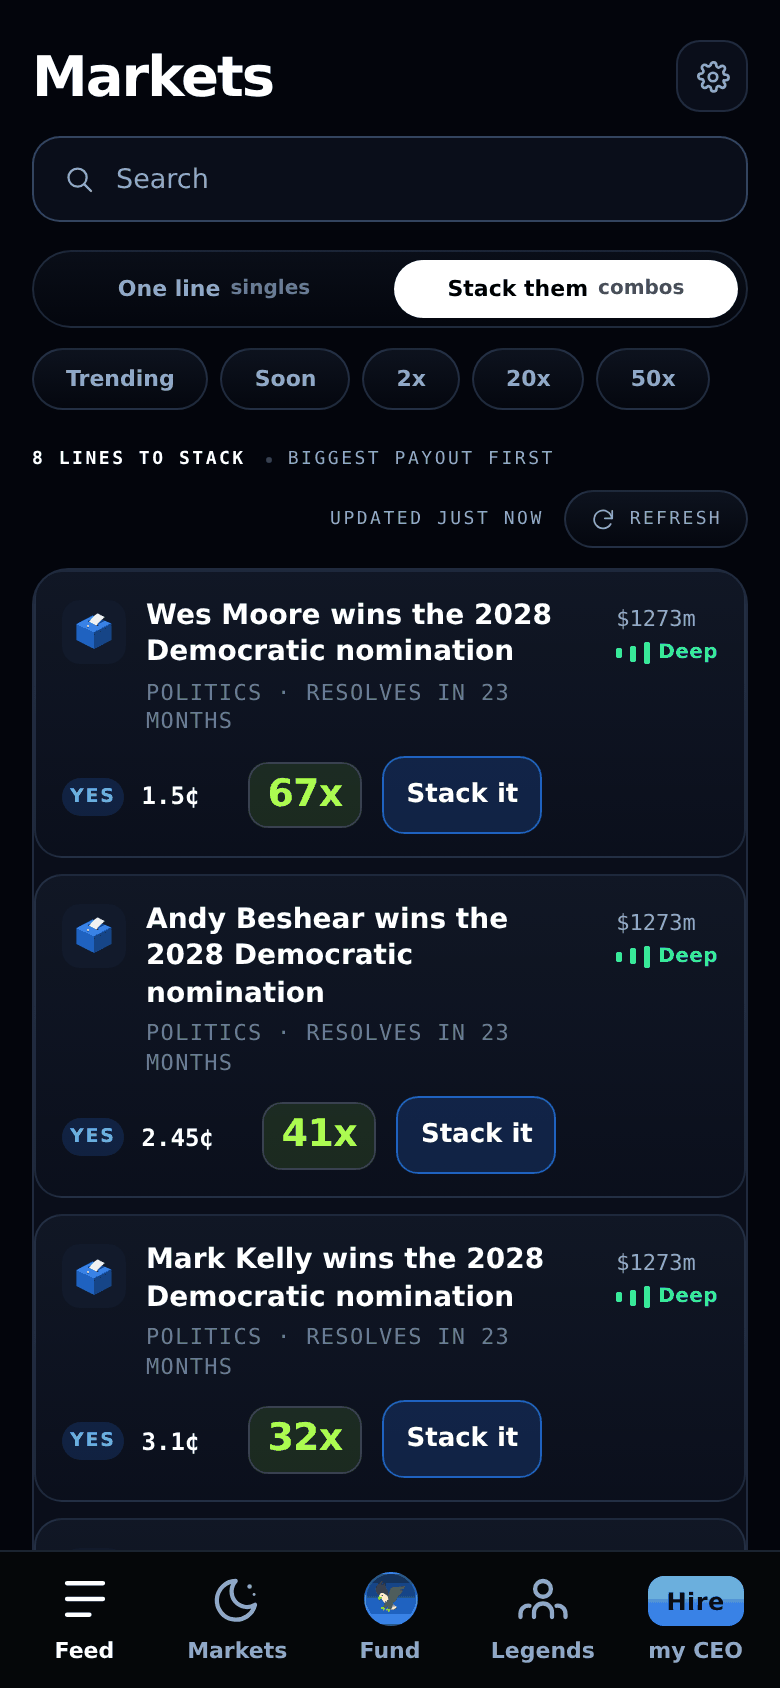
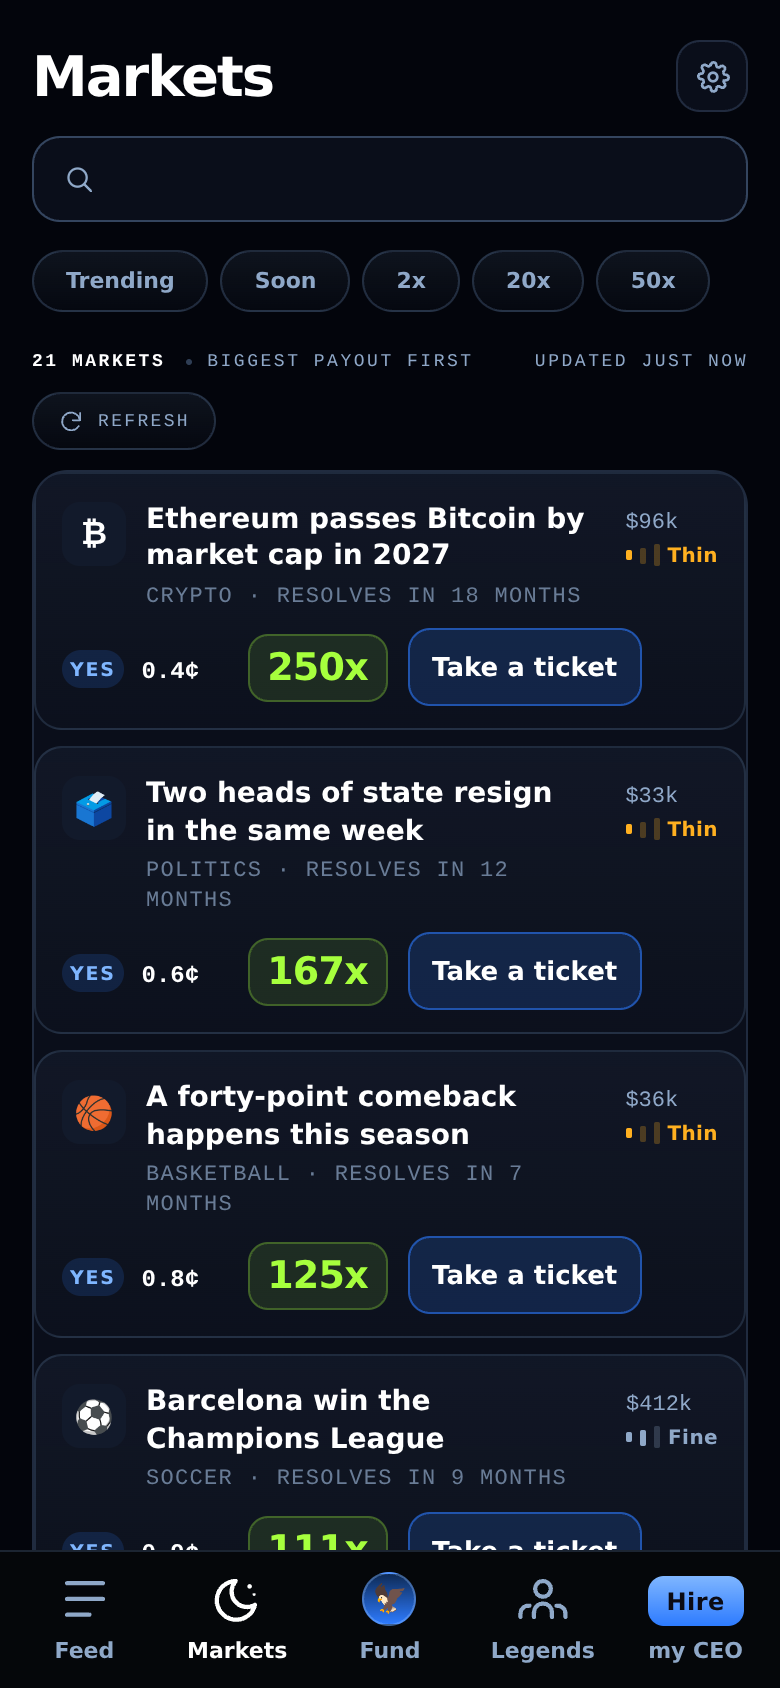
Accueil: accroche sur deux niveaux, capture des marches mise a jour

diff --git a/index.html b/index.html
@@ -6,12 +6,12 @@
 <meta name="color-scheme" content="dark">
 <meta name="theme-color" content="#03050C">
 <title>MOONX | Where long shots become legends</title>
-<meta name="description" content="Trading Polymarket for the 99%. Chase the X on any prediction market, in a tap.">
+<meta name="description" content="Trading Polymarket for the 99%. Chase the X on any prediction market, in seconds.">
 <link rel="canonical" href="https://moonx.fi/">
 <meta property="og:type" content="website">
 <meta property="og:site_name" content="MOONX">
 <meta property="og:title" content="MOONX | Where long shots become legends">
-<meta property="og:description" content="Trading Polymarket for the 99%. Chase the X on any prediction market, in a tap.">
+<meta property="og:description" content="Trading Polymarket for the 99%. Chase the X on any prediction market, in seconds.">
 <meta property="og:url" content="https://moonx.fi/">
 <meta property="og:image" content="https://moonx.fi/og-image.png">
 <meta property="og:image:width" content="1200">
@@ -801,13 +801,15 @@ body.lit .kick{opacity:1}
 .kick2{position:relative;z-index:2;font-weight:800;font-size:clamp(26px,4.4vw,44px);letter-spacing:-.035em;line-height:1.05;margin-top:10px;max-width:16ch}
 .kick2[hidden]{display:none}
 
-.tagline{position:relative;z-index:2;margin:16px auto 0;max-width:min(92vw,64ch);color:var(--dim,#8FA8C8);font-size:clamp(17px,1.6vw,22px);line-height:1.4;font-weight:500;text-align:center}
+.tagline{position:relative;z-index:2;margin:16px auto 0;max-width:min(92vw,64ch);text-align:center;display:flex;flex-direction:column;gap:4px}
+.tagline strong{color:#DCE4F2;font-weight:600;font-size:clamp(20px,1.9vw,26px);line-height:1.25;letter-spacing:-.01em}
+.tagline span{color:var(--dim,#8FA8C8);font-weight:500;font-size:clamp(15px,1.3vw,18px);line-height:1.4}
 .pline[hidden]{display:none}
 .proof[hidden]{display:none}
-.proof{position:relative;z-index:2;margin-top:18px;text-align:center;opacity:0;transition:opacity 1s .4s}
+.proof{position:relative;z-index:2;margin-top:40px;text-align:center;opacity:0;transition:opacity 1s .4s}
 body.lit .proof{opacity:1}
 
-.pmult{font-family:"Blanka","Elianto",system-ui,sans-serif;font-weight:400;font-size:clamp(60px,17vw,112px);letter-spacing:0;line-height:.95;color:var(--mint);text-shadow:0 0 30px rgba(166,255,61,.45)}
+.pmult{font-family:"Blanka","Elianto",system-ui,sans-serif;font-weight:400;font-size:clamp(64px,15vw,96px);letter-spacing:0;line-height:.95;color:var(--mint);text-shadow:0 0 30px rgba(166,255,61,.45)}
 .ptime{display:inline-block;margin-top:6px;font-family:var(--mono);font-size:11px;letter-spacing:.16em;color:#fff;background:rgba(166,255,61,.14);border:1px solid rgba(166,255,61,.35);border-radius:99px;padding:5px 12px}
 .ptime.c{background:rgba(127,182,255,.14);border-color:rgba(127,182,255,.4)}
 .phead{margin-top:12px;font-weight:800;font-size:clamp(20px,5vw,26px);letter-spacing:-.02em;line-height:1.15;max-width:22ch;margin-left:auto;margin-right:auto}
@@ -1145,7 +1147,7 @@ body>nav>a:first-child:hover::after,body>nav>a:first-child:focus-visible::after{
   <div class="wordmark"><svg class="wm" viewBox="14 0 72 22" role="img" aria-label="MOONX" preserveAspectRatio="xMidYMid meet"><text class="wmt" x="50" y="17" text-anchor="middle">MOONX</text></svg></div>
   <p class="kick2" id="kick2" hidden>where long shots become legends.</p>
 
-  <p class="tagline">Trading Polymarket for the 99%. Chase the X on any prediction market, in a tap.</p>
+  <p class="tagline"><strong>Trading Polymarket for the 99%.</strong><span>Chase the X on any prediction market, in seconds.</span></p>
   <div class="proof" id="proof" hidden>
     <div class="pmult" id="pMult">4.5x</div>
     <div class="ptime" id="pTime">IN 90 MINUTES</div>
@@ -1157,8 +1159,8 @@ body>nav>a:first-child:hover::after,body>nav>a:first-child:focus-visible::after{
   <a class="cta" href="#board">Get your ticket</a>
   <div class="stage">
     <div class="desk" aria-hidden="true"><picture><source srcset="assets/shots/45b377bc54.webp" type="image/webp"><img class="" src="assets/shots/45b377bc54.png" width="1920" height="1200" alt="MOONX on a laptop and a phone: the feed of shots, the board of markets, and a position paying its multiple." style="display:block;width:100%;height:auto" loading="lazy" decoding="async"></picture></div>
-    <div class="phone" aria-label="MOONX app preview: take the shot">
-      <div class="screen screen-img"><picture><source srcset="assets/shots/dd7871ec76.webp" type="image/webp"><img class="" src="assets/shots/dd7871ec76.png" width="780" height="1688" alt="MOONX: take the shot on a real market. Mark Cuban wins the 2028 Democratic nomination, YES at 0.55¢: $10 you stake, $1,818 if it moons. If it misses you lose the $10 and nothing more." loading="lazy" decoding="async"></picture></div>
+    <div class="phone" aria-label="MOONX app preview: the markets board">
+  <div class="screen screen-img"><picture><source srcset="assets/shots/eec0e71716.webp" type="image/webp"><img class="" src="assets/shots/eec0e71716.png" width="780" height="1688" alt="MOONX markets: every prediction market with its price and its multiple. Ethereum passes Bitcoin by market cap in 2027, YES at 0.4¢, 250x, one ticket away." loading="lazy" decoding="async"></picture></div>
     </div>
     <div class="fade" aria-hidden="true"></div>
     <div class="band">
@@ -1170,9 +1172,9 @@ body>nav>a:first-child:hover::after,body>nav>a:first-child:focus-visible::after{
 <section class="journey" id="journey">
     <h2 class="sr-only">how it works, step by step</h2>
   <div class="jwrap">
-    <div class="jsticky"><div class="jstage"><div class="jphone" id="jphone"><div class="jscreen"><picture><source srcset="assets/shots/fe14147745.webp" type="image/webp"><img class="scr" data-i="0" src="assets/shots/fe14147745.png" width="780" height="1688" alt="The MOONX account step: an email, a name for your fund, and a PIN." loading="lazy" decoding="async"></picture><picture><source srcset="assets/shots/2f304c423f.webp" type="image/webp"><img class="scr" data-i="1" src="assets/shots/2f304c423f.png" width="780" height="1688" alt="The wallet step: an encrypted backup file and a password only you hold." loading="lazy" decoding="async"></picture><picture><source srcset="assets/shots/0e46fb0722.webp" type="image/webp"><img class="scr" data-i="2" src="assets/shots/0e46fb0722.png" width="780" height="1688" alt="Choosing a PIN, six to twelve digits, that confirms every trade."></picture><picture><source srcset="assets/shots/eec0e71716.webp" type="image/webp"><img class="scr" data-i="3" src="assets/shots/eec0e71716.png" width="780" height="1688" alt="The bridge to Polymarket, opened from your own wallet." loading="lazy" decoding="async"></picture><picture><source srcset="assets/shots/dd7871ec76.webp" type="image/webp"><img class="scr" data-i="4" src="assets/shots/dd7871ec76.png" width="780" height="1688" alt="The board: every prediction market, with its price." loading="lazy" decoding="async"></picture><picture><source srcset="assets/shots/fa761d795b.webp" type="image/webp"><img class="scr" data-i="5" src="assets/shots/fa761d795b.png" width="780" height="1688" alt="Taking a shot on a market, with the payout shown before you confirm." loading="lazy" decoding="async"></picture><picture><source srcset="assets/shots/0c6cef10d6.webp" type="image/webp"><img class="scr" data-i="6" src="assets/shots/0c6cef10d6.png" width="780" height="1688" alt="The feed: who took which shot, and how it resolved." loading="lazy" decoding="async"></picture><picture><source srcset="assets/shots/6fdc2fb68d.webp" type="image/webp"><img class="scr" data-i="7" src="assets/shots/6fdc2fb68d.png" width="780" height="1688" alt="A resolved position paying its multiple, on-chain." loading="lazy" decoding="async"></picture><picture><source srcset="assets/shots/a3fd2457c9.webp" type="image/webp"><img class="scr" data-i="8" src="assets/shots/a3fd2457c9.png" width="780" height="1688" alt="The Hall of Fame: the biggest multiples, kept forever." loading="lazy" decoding="async"></picture><picture><source srcset="assets/shots/3b6543f892.webp" type="image/webp"><img class="scr" data-i="9" src="assets/shots/3b6543f892.png" width="780" height="1688" alt="Cashing out to your own wallet." loading="lazy" decoding="async"></picture><div class="jsheet" id="jsheet" aria-hidden="true"><div class="jsheet-grab"></div><div class="jsheet-t">Put your idle cash to work.</div><div class="jsheet-row"><span>Main wallet</span><b>$1,240.00</b></div><div class="jsheet-rate"><span>Aave, on Polygon</span><b>4.5% a year</b></div><div class="jsheet-cta">Earn 4.5%</div><div class="jsheet-note">Withdraw any time. It never leaves your wallet.</div></div></div></div><div class="jglow"></div></div></div>
+    <div class="jsticky"><div class="jstage"><div class="jphone" id="jphone"><div class="jscreen"><picture><source srcset="assets/shots/fe14147745.webp" type="image/webp"><img class="scr" data-i="0" src="assets/shots/fe14147745.png" width="780" height="1688" alt="The MOONX account step: an email, a name for your fund, and a PIN." loading="lazy" decoding="async"></picture><picture><source srcset="assets/shots/2f304c423f.webp" type="image/webp"><img class="scr" data-i="1" src="assets/shots/2f304c423f.png" width="780" height="1688" alt="The wallet step: an encrypted backup file and a password only you hold." loading="lazy" decoding="async"></picture><picture><source srcset="assets/shots/0e46fb0722.webp" type="image/webp"><img class="scr" data-i="2" src="assets/shots/0e46fb0722.png" width="780" height="1688" alt="Choosing a PIN, six to twelve digits, that confirms every trade."></picture><picture><source srcset="assets/shots/eec0e71716.webp" type="image/webp"><img class="scr" data-i="3" src="assets/shots/eec0e71716.png" width="780" height="1688" alt="The board: every prediction market with its price and its multiple, one ticket away." loading="lazy" decoding="async"></picture><picture><source srcset="assets/shots/dd7871ec76.webp" type="image/webp"><img class="scr" data-i="4" src="assets/shots/dd7871ec76.png" width="780" height="1688" alt="The board: every prediction market, with its price." loading="lazy" decoding="async"></picture><picture><source srcset="assets/shots/fa761d795b.webp" type="image/webp"><img class="scr" data-i="5" src="assets/shots/fa761d795b.png" width="780" height="1688" alt="Taking a shot on a market, with the payout shown before you confirm." loading="lazy" decoding="async"></picture><picture><source srcset="assets/shots/0c6cef10d6.webp" type="image/webp"><img class="scr" data-i="6" src="assets/shots/0c6cef10d6.png" width="780" height="1688" alt="The feed: who took which shot, and how it resolved." loading="lazy" decoding="async"></picture><picture><source srcset="assets/shots/6fdc2fb68d.webp" type="image/webp"><img class="scr" data-i="7" src="assets/shots/6fdc2fb68d.png" width="780" height="1688" alt="A resolved position paying its multiple, on-chain." loading="lazy" decoding="async"></picture><picture><source srcset="assets/shots/a3fd2457c9.webp" type="image/webp"><img class="scr" data-i="8" src="assets/shots/a3fd2457c9.png" width="780" height="1688" alt="The Hall of Fame: the biggest multiples, kept forever." loading="lazy" decoding="async"></picture><picture><source srcset="assets/shots/3b6543f892.webp" type="image/webp"><img class="scr" data-i="9" src="assets/shots/3b6543f892.png" width="780" height="1688" alt="Cashing out to your own wallet." loading="lazy" decoding="async"></picture><div class="jsheet" id="jsheet" aria-hidden="true"><div class="jsheet-grab"></div><div class="jsheet-t">Put your idle cash to work.</div><div class="jsheet-row"><span>Main wallet</span><b>$1,240.00</b></div><div class="jsheet-rate"><span>Aave, on Polygon</span><b>4.5% a year</b></div><div class="jsheet-cta">Earn 4.5%</div><div class="jsheet-note">Withdraw any time. It never leaves your wallet.</div></div></div></div><div class="jglow"></div></div></div>
     <div class="jband" aria-hidden="true"><div class="bandin" id="bandin"></div></div>
-    <div class="jsteps" id="jsteps"><div class="step" data-i="0"><div class="eyebrow">01 · EASY ONBOARDING</div><h3>an email, a name for your fund, a PIN, and you are on-chain</h3></div><div class="step" data-i="1"><div class="eyebrow">02 · ONE CLICK FUNDING</div><h3>fund with a card or the USDC you hold</h3></div><div class="step" data-i="2"><div class="eyebrow">03 · SOCIAL FEED</div><h3>see what everyone is chasing</h3></div><div class="step" data-i="3"><div class="eyebrow">04 · MARKETS</div><h3>take what's on the board, or stack your own</h3></div><div class="step" data-i="4"><div class="eyebrow">05 · THE SHOT</div><h3>dollars in, the sky if it moons</h3></div><div class="step" data-i="5"><div class="eyebrow">06 · SHOTS</div><h3>watch it climb, cash out when you like</h3></div><div class="step" data-i="6"><div class="eyebrow">07 · HALL OF FAME</div><h3>every shot you settle becomes a card</h3></div><div class="step" data-i="7"><div class="eyebrow">08 · MONEY</div><h3>your keys, no gas, and one tap puts idle cash to work</h3></div><div class="step" data-i="8"><div class="eyebrow">09 · INVITE</div><h3>bring a cowboy in, earn on every shot they take</h3></div><div class="step" data-i="9"><div class="eyebrow">10 · ON-CHAIN</div><h3>built on the venues that matter</h3></div></div>
+    <div class="jsteps" id="jsteps"><div class="step" data-i="0"><div class="eyebrow">01 · EASY ONBOARDING</div><h3>an email, a name for your fund, a PIN, and you are on-chain</h3></div><div class="step" data-i="1"><div class="eyebrow">02 · ONE CLICK FUNDING</div><h3>fund with a card or the USDC you hold</h3></div><div class="step" data-i="2"><div class="eyebrow">03 · SOCIAL FEED</div><h3>see what everyone is chasing</h3></div><div class="step" data-i="3"><div class="eyebrow">04 · MARKETS</div><h3>explore and take what's on the board</h3></div><div class="step" data-i="4"><div class="eyebrow">05 · THE SHOT</div><h3>dollars in, the sky if it moons</h3></div><div class="step" data-i="5"><div class="eyebrow">06 · SHOTS</div><h3>watch it climb, cash out when you like</h3></div><div class="step" data-i="6"><div class="eyebrow">07 · HALL OF FAME</div><h3>every shot you settle becomes a card</h3></div><div class="step" data-i="7"><div class="eyebrow">08 · MONEY</div><h3>your keys, no gas, and one tap puts idle cash to work</h3></div><div class="step" data-i="8"><div class="eyebrow">09 · INVITE</div><h3>bring a cowboy in, earn on every shot they take</h3></div><div class="step" data-i="9"><div class="eyebrow">10 · ON-CHAIN</div><h3>built on the venues that matter</h3></div></div>
   </div>
 </section>
 <script>
